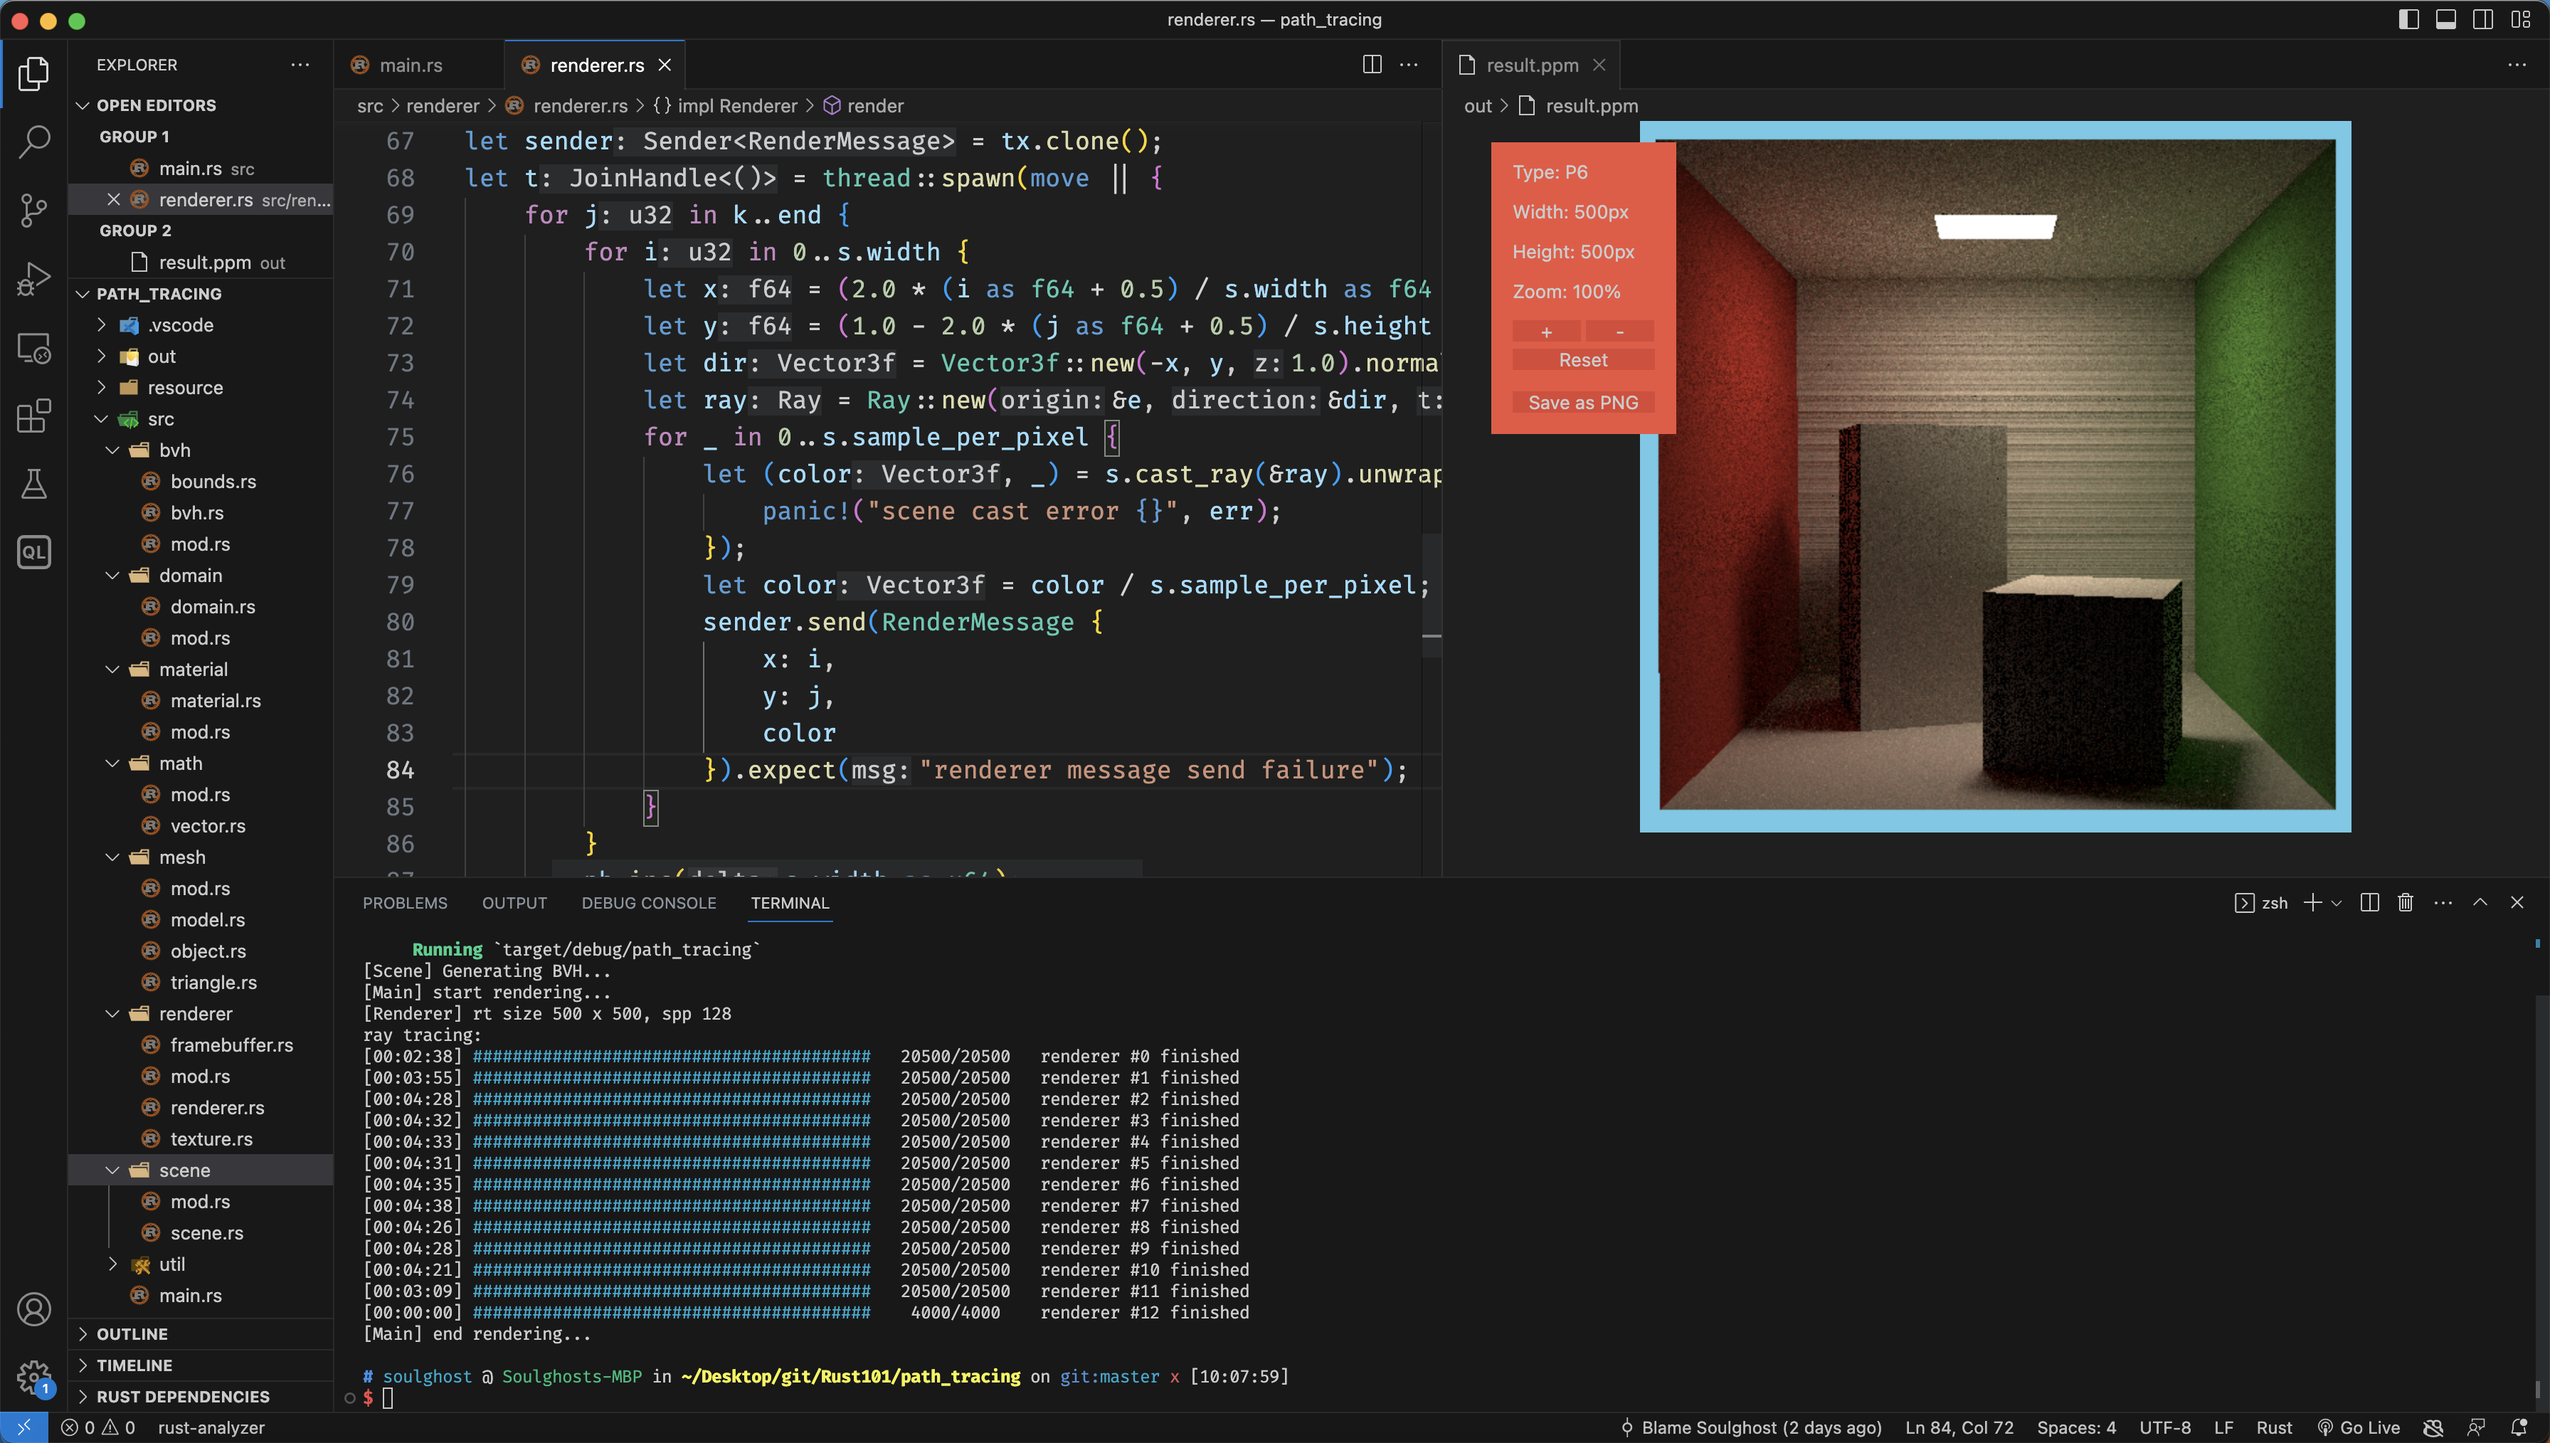
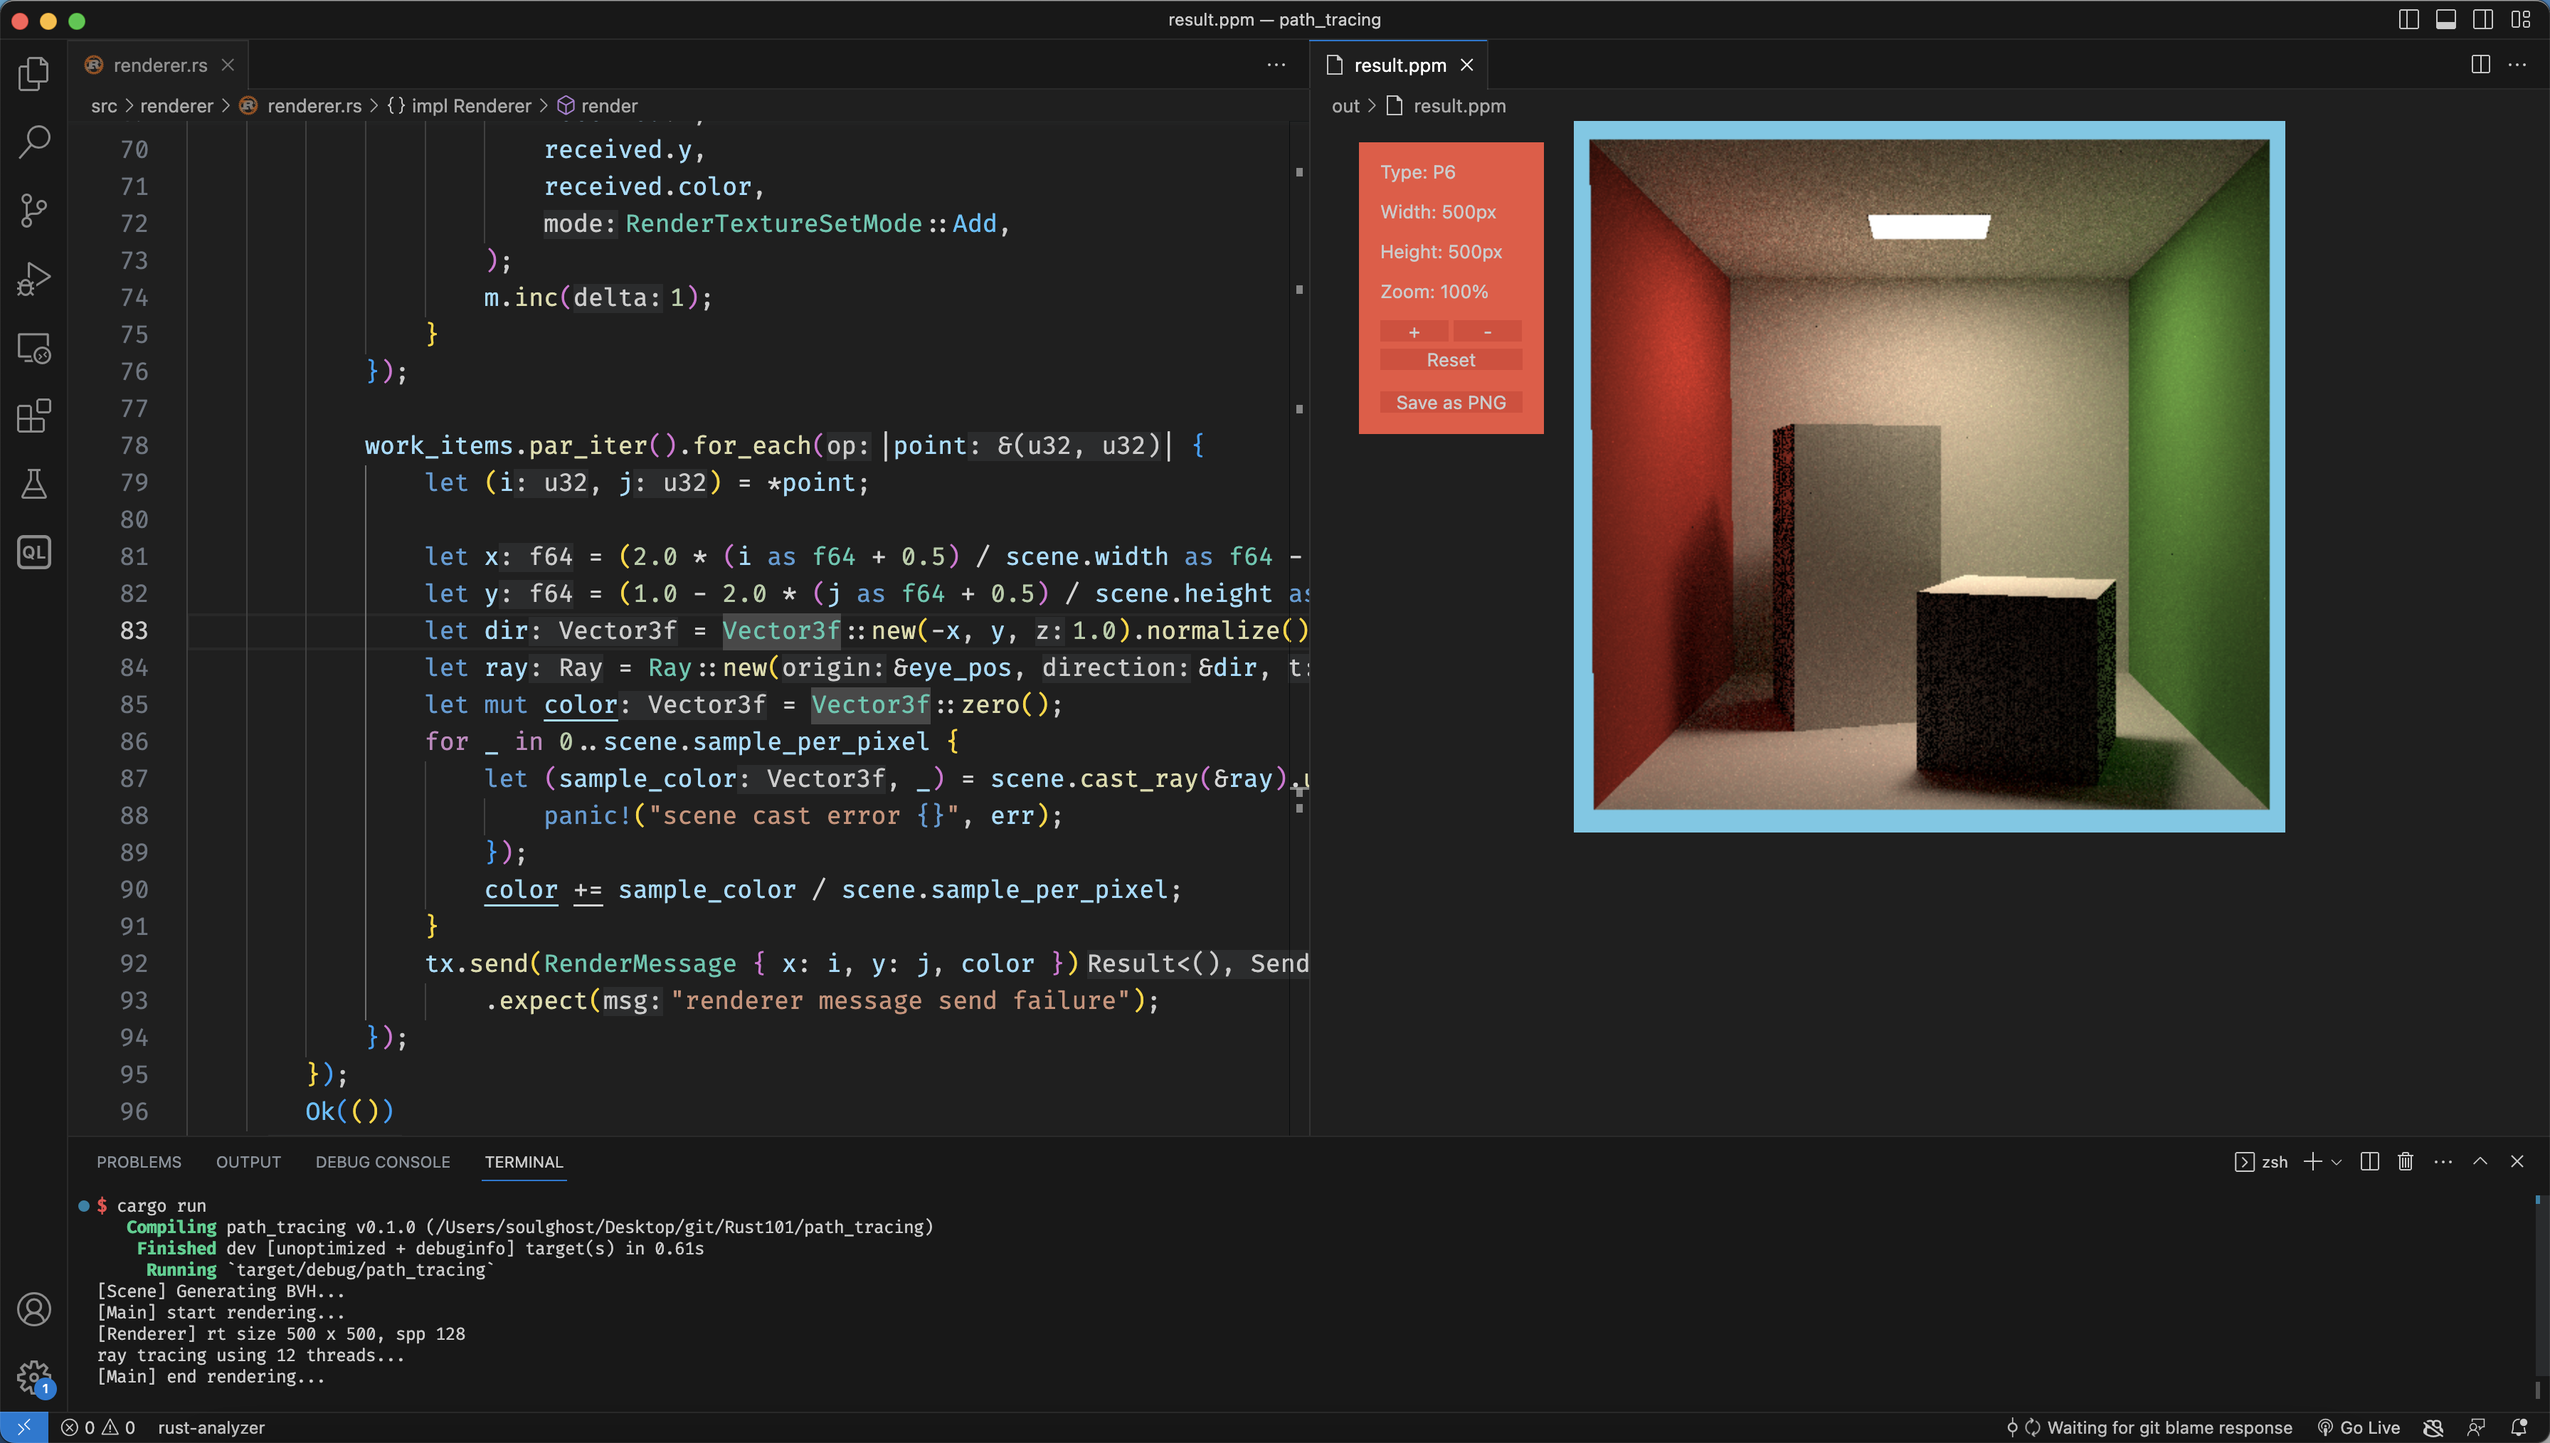
fix: shadow aliasing

diff --git a/path_tracing/src/scene/scene.rs b/path_tracing/src/scene/scene.rs
@@ -105,7 +105,7 @@ impl Scene {
             &Ray::new(&hit.coords, &ws, 0.0)
         );
         let occluder_dis = shadow_check_inter.distance * shadow_check_inter.distance;
-        if occluder_dis - hit_to_light_dis > -f64::EPSILON {
+        if occluder_dis - hit_to_light_dis > -1e-3 {
             // not in shadow
             let f_r = hit_mat.eval(&ws, &wo, &hit.normal);
             l_dir = &inter_light.emit // L_i
